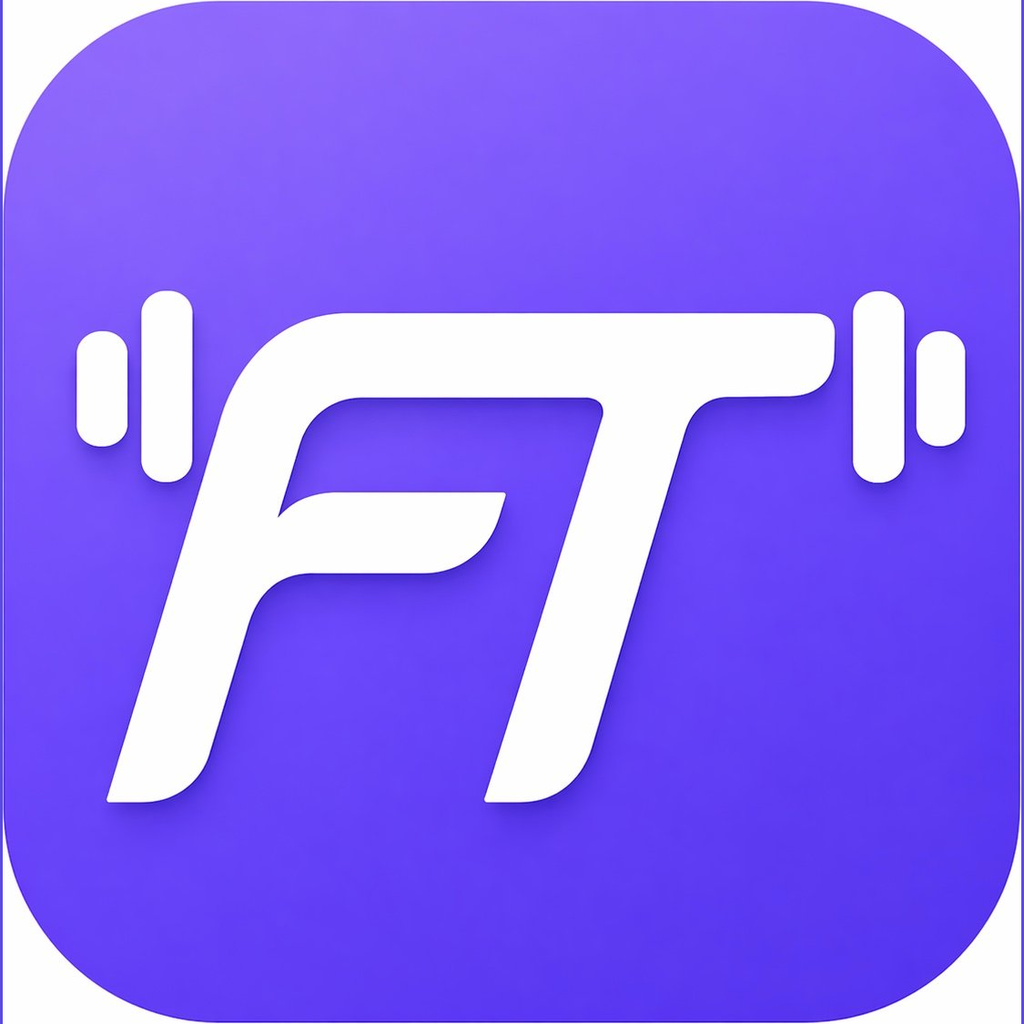
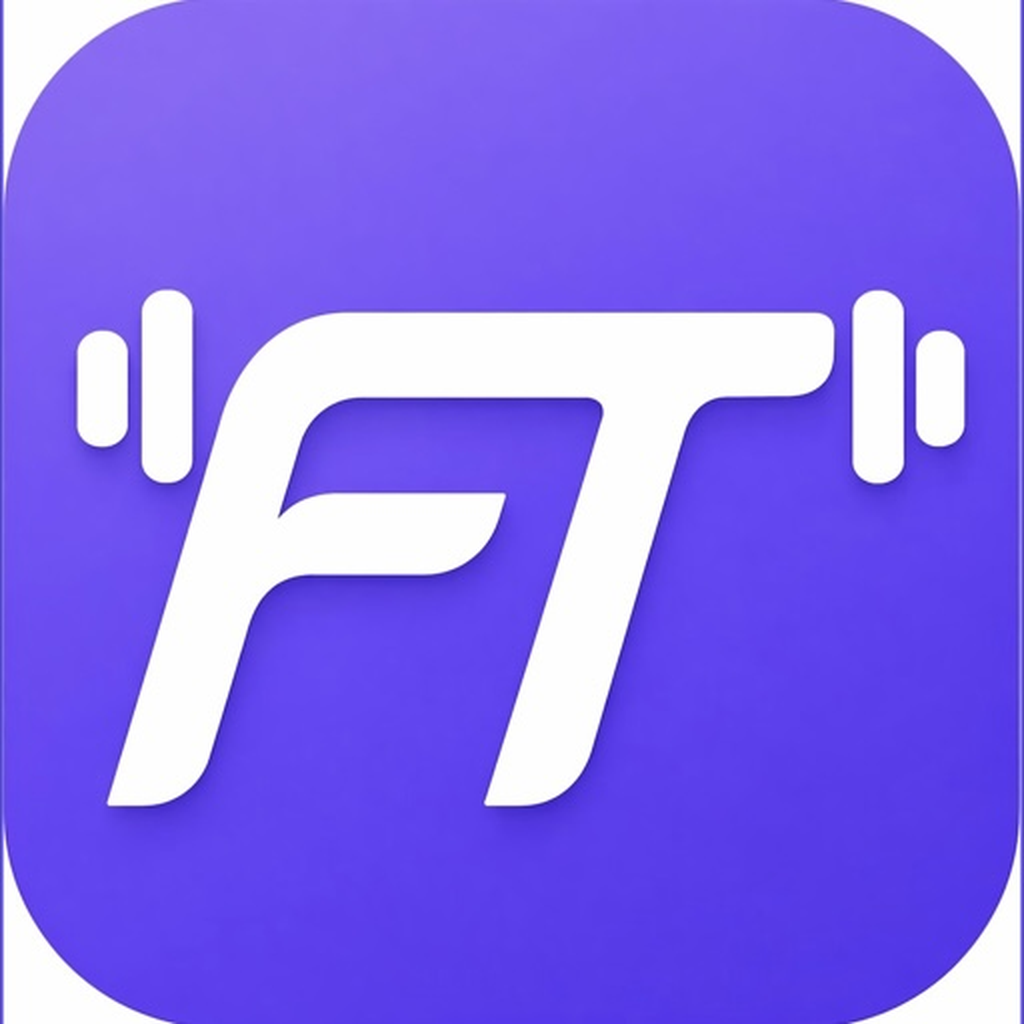
fix: 매칭권 아이콘 이미지 교체 및 크기 조정

diff --git a/app/store.tsx b/app/store.tsx
@@ -5,6 +5,7 @@ import React, { useCallback, useEffect, useMemo, useRef, useState } from 'react'
 import {
   ActivityIndicator,
   Alert,
+  Image,
   Platform,
   Pressable,
   ScrollView,
@@ -813,9 +814,18 @@ export default function StoreScreen() {
               <RowWrap key={item.id} {...(wrapProps as any)}>
               <View style={styles.rowLeft}>
                 <View style={styles.iconWrap}>
-                  <Text style={styles.dumbbellIcon} accessibilityLabel="매칭권">
-                    🏋️
-                  </Text>
+                  {tab === 'matching' ? (
+                    <Image
+                      source={require('../assets/images/matching-ticket.png')}
+                      style={styles.matchingTicketIcon}
+                      resizeMode="contain"
+                      accessibilityLabel="매칭권"
+                    />
+                  ) : (
+                    <Text style={styles.dumbbellIcon} accessibilityLabel="피티권">
+                      🏋️
+                    </Text>
+                  )}
                 </View>
                 <View style={styles.rowBody}>
                   <View style={styles.rowTitleLine}>
@@ -1045,6 +1055,10 @@ const styles = StyleSheet.create({
     backgroundColor: 'rgba(108, 71, 255, 0.12)',
     alignItems: 'center',
     justifyContent: 'center',
+  },
+  matchingTicketIcon: {
+    width: 48,
+    height: 48,
   },
   dumbbellIcon: {
     fontSize: 20,

diff --git a/app/(tabs)/index.tsx b/app/(tabs)/index.tsx
@@ -528,7 +528,12 @@ export default function HomeScreen() {
                   accessibilityRole="button"
                   accessibilityLabel="매칭권 사용"
                 >
-                  <MaterialCommunityIcons name="dumbbell" size={24} color="#FFFFFF" />
+                  <Image
+                    source={require('../../assets/images/matching-ticket.png')}
+                    style={styles.matchTicketIcon}
+                    resizeMode="contain"
+                    accessibilityLabel="매칭권"
+                  />
                 </Pressable>
 
                 <Pressable
@@ -953,10 +958,13 @@ const styles = StyleSheet.create({
     width: 44,
     height: 44,
     borderRadius: 22,
-    backgroundColor: MAIN,
     alignItems: 'center',
     justifyContent: 'center',
     zIndex: 5,
+  },
+  matchTicketIcon: {
+    width: 42,
+    height: 42,
   },
   heartBtn: {
     position: 'absolute',

diff --git a/CONTEXT.md b/CONTEXT.md
@@ -202,6 +202,9 @@
 - 상점 화면 (홈 상단 버튼, 리워드 탭 매칭권 구매 버튼으로 진입)
 - 상점 피티권 탭 추가 (승인된 트레이너만 구매 가능)
 - 상점 상품 카드 원가 취소선 + 할인가 + 할인율 뱃지 표시
+- 매칭권 아이콘 이미지 교체 (matching-ticket.png 적용)
+  - 홈 피드 매칭 버튼: dumbbell 아이콘 → matching-ticket.png (42x42), 배경색 제거
+  - 상점 매칭권 상품 행: 이모지 → matching-ticket.png (48x48)
 - iOS 인앱결제(IAP) 구현 완료
   - expo-in-app-purchases 연동
   - App Store Connect 상품 등록 완료 (매칭권 6개, 트레이너 등록 1개)